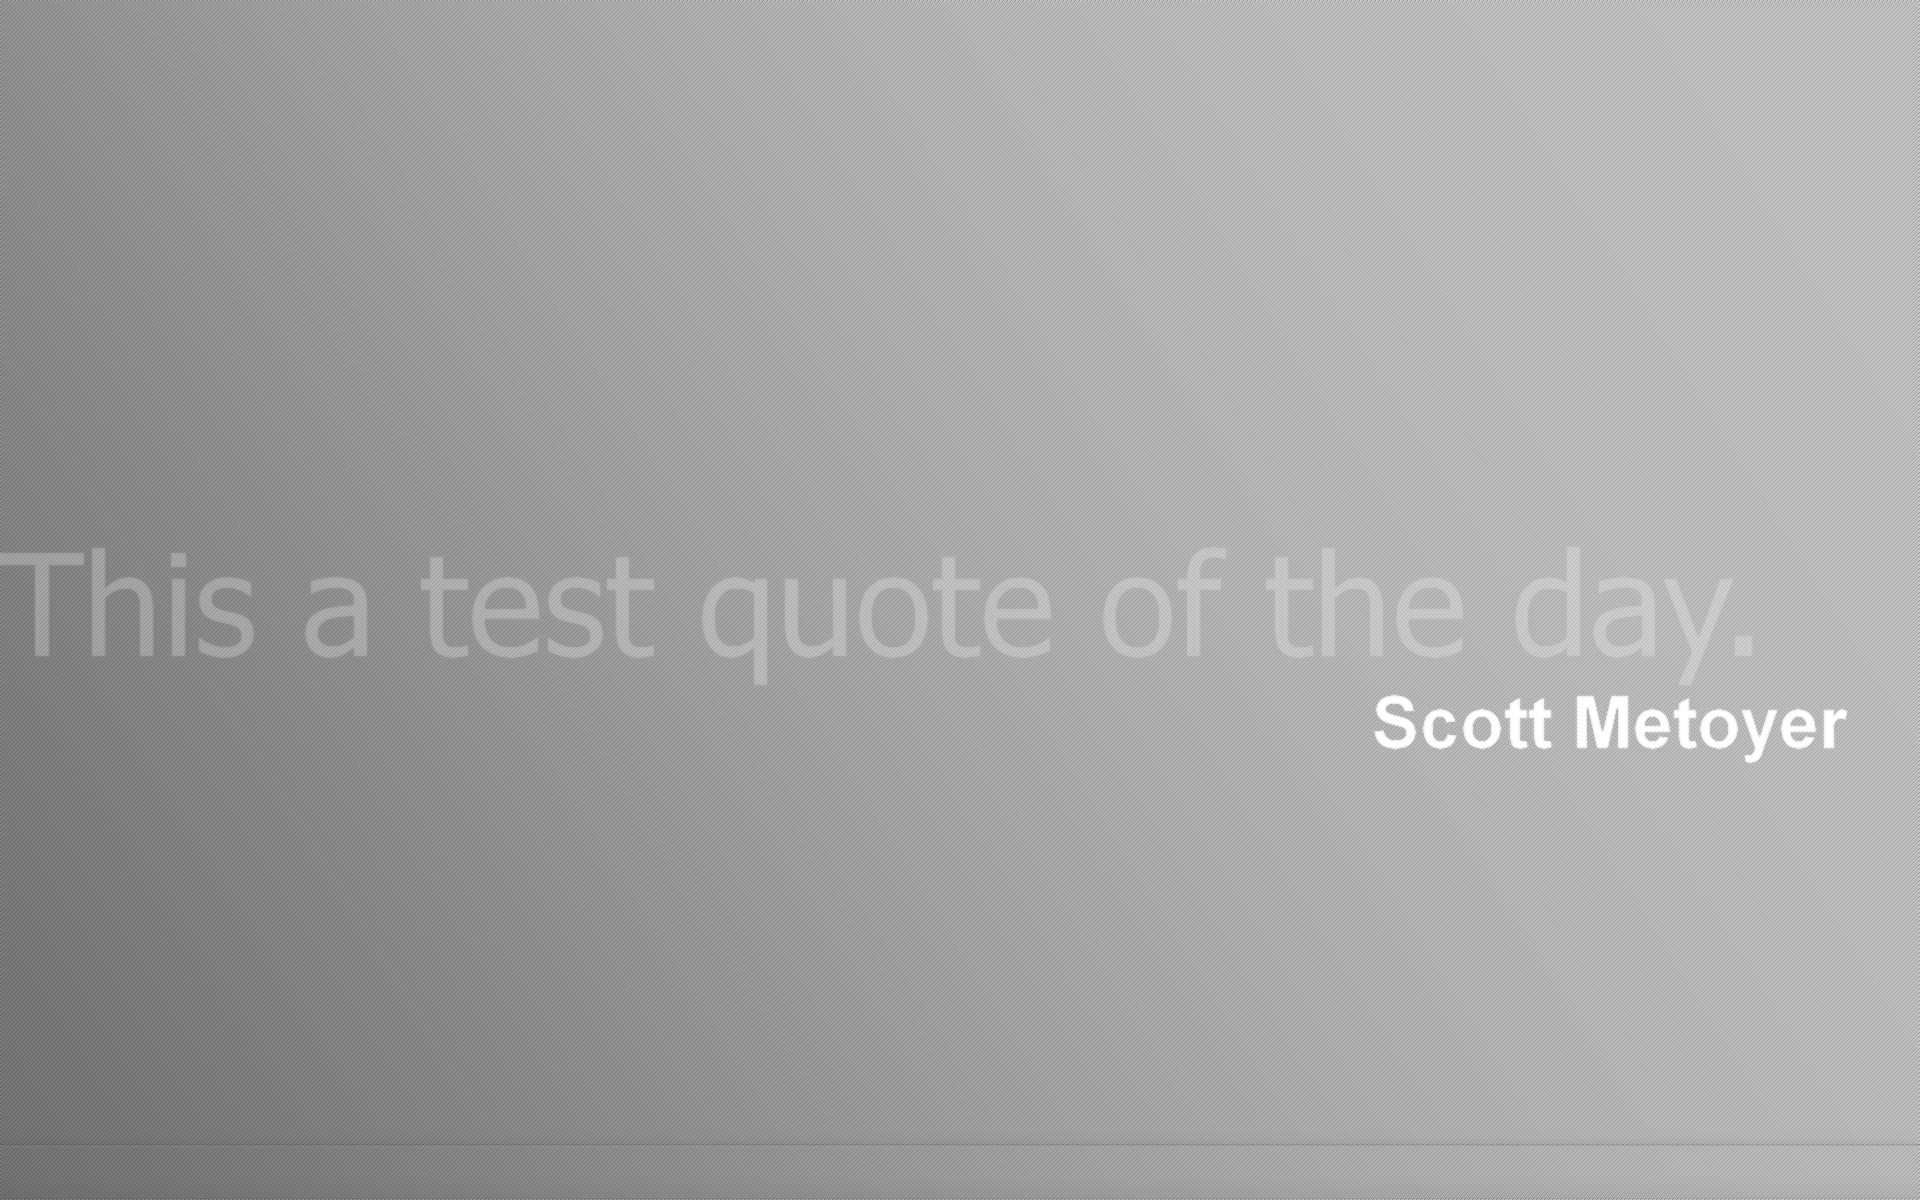
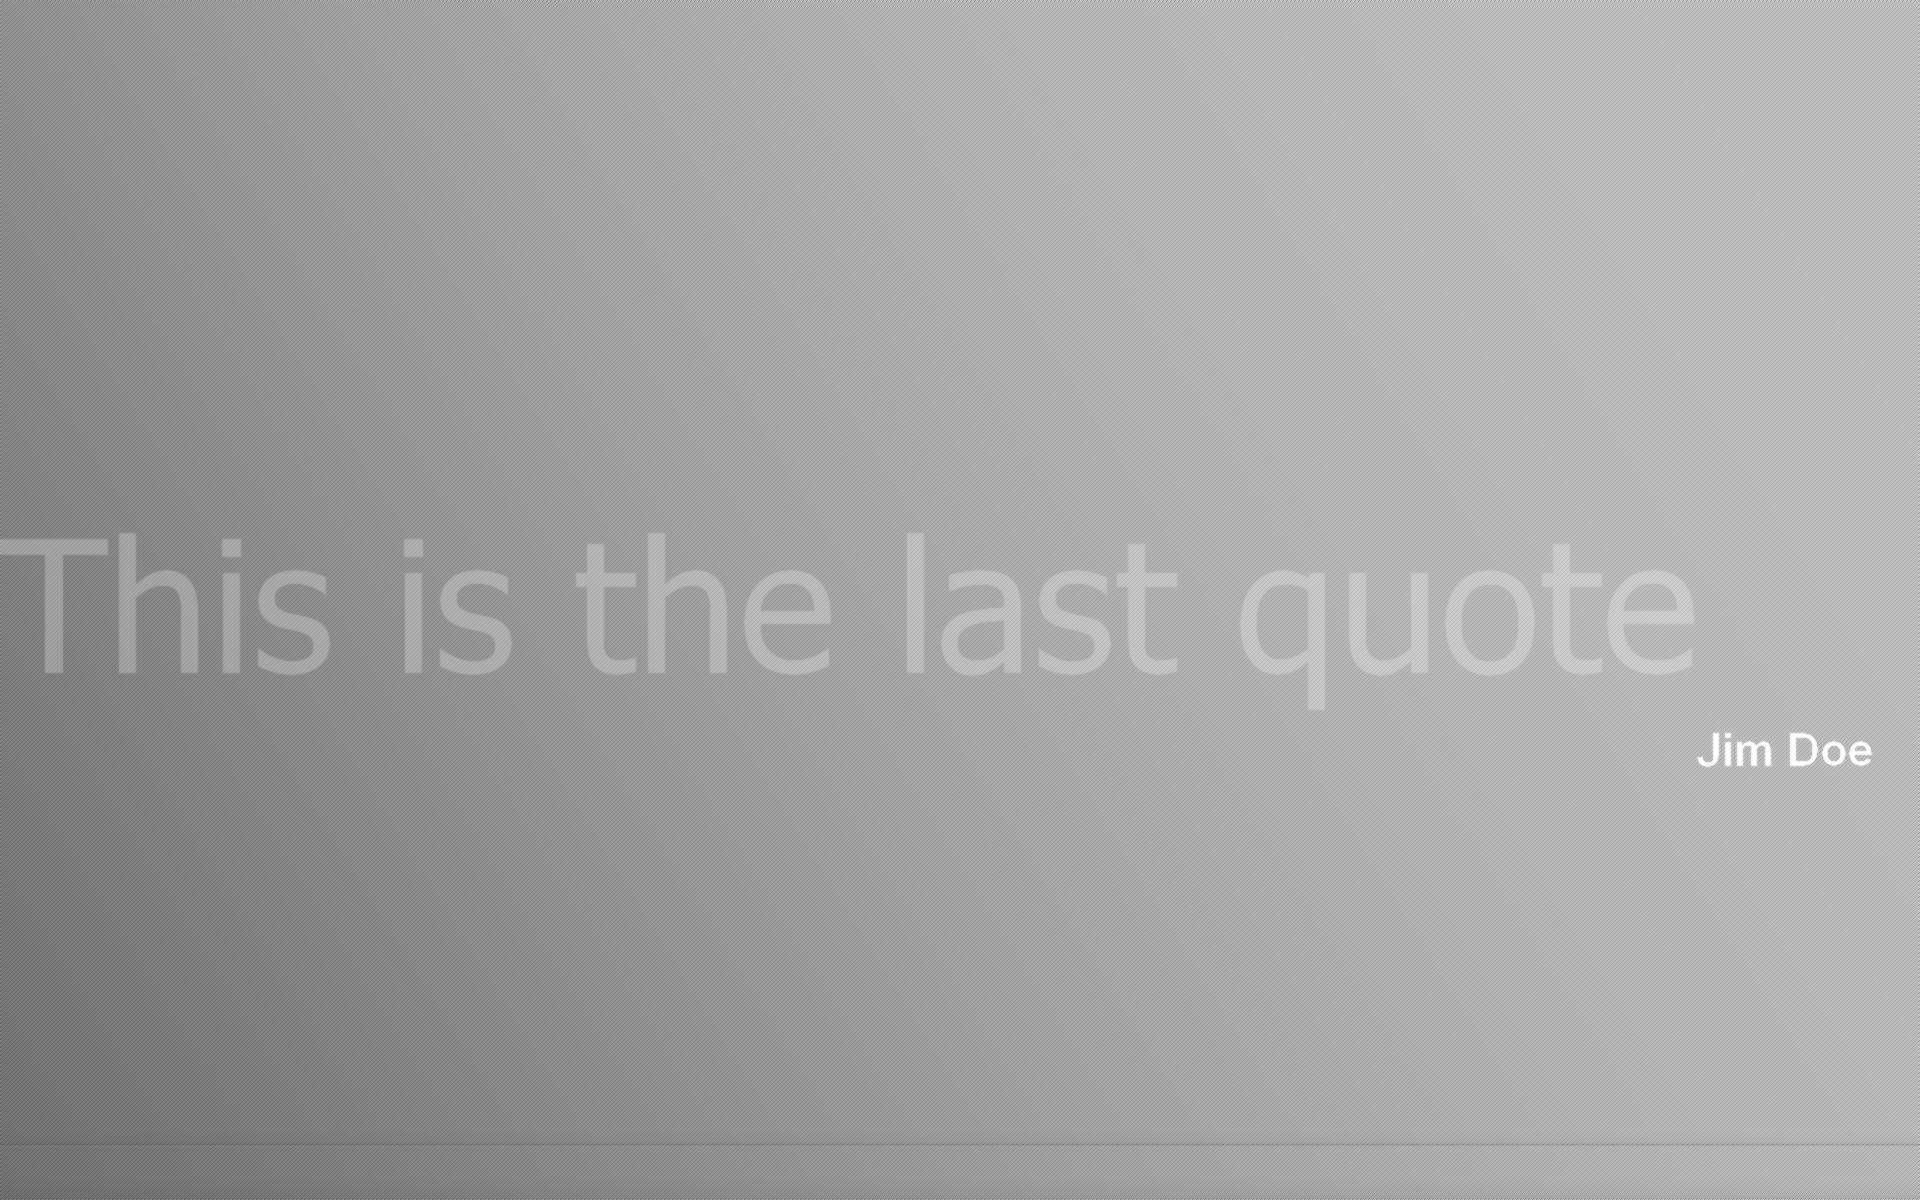
Added json output to node script

Changed region(s): [[0.0, 0.4317, 0.375, 0.555], [0.7188, 0.5858, 0.9688, 0.6475], [0.4062, 0.4933, 0.4375, 0.555]]

diff --git a/quoteserver.js b/quoteserver.js
@@ -2,20 +2,22 @@ var fs = require('fs');
 var http = require('http');
 
 http.createServer(function (req, res) {
-    var output = '';
+    var output = { };
     
     try {   
         var quotes = []
         quotes = fs.readFileSync('./quotes.txt').toString().split('\n');
     
         // Grab a random quote
-        output  = quotes[Math.floor((Math.random() * (quotes.length)))];
+        var quote = quotes[Math.floor((Math.random() * (quotes.length)))].trim().split('-');
+        output = { text: quote[0].trim(), author: quote[1].trim() };
     }
     catch(ex) {
         output = ex.toString();
     }
     
-    res.writeHead(200, {'Content-Type': 'text/plain'});
-    res.end(output);
+    res.writeHead(200, {'Content-Type': 'application/json'});
+    res.write(JSON.stringify(output));
+    res.end();
 }).listen(1337, '127.0.0.1');
 console.log('Server running at http://127.0.0.1:1337/');

diff --git a/update-wallpaper.py b/update-wallpaper.py
@@ -3,14 +3,19 @@
 import ctypes
 import os
 import textwrap
+import json
+import urllib2
 from PIL import Image, ImageDraw, ImageFont, ImageEnhance, ImageFilter
 
 FONT = "tahoma.ttf"
 BOLD_FONT = "arialbd.ttf"
-
 SPI_SETDESKWALLPAPER = 20 # According to http://support.microsoft.com/default.aspx?scid=97142
 
-def add_quote(in_file, text, author, out_file, opacity=0.25):
+def get_quote(url):
+    quote = json.load(urllib2.urlopen(url))
+    return quote
+
+def render_wallpaper(in_file, text, author, out_file, opacity=0.25):
     img = Image.open(in_file).convert("RGB")
     quote_image = Image.new('RGBA', img.size, (0,0,0,0))
     size = 2
@@ -61,11 +66,9 @@ def add_quote(in_file, text, author, out_file, opacity=0.25):
     Image.composite(author_image, composite, author_image).filter(ImageFilter.SMOOTH_MORE).save(out_file, "JPEG")
 
 rendered_wallpaper = os.getcwd() + "/rendered.jpg"
-add_quote("wallpaper.jpg", "This a test quote of the day.", "Scott Metoyer", rendered_wallpaper)
+quote = get_quote("http://127.0.0.1:1337")
+render_wallpaper("wallpaper.jpg", quote["text"], quote["author"], rendered_wallpaper)
 errorCode = ctypes.windll.user32.SystemParametersInfoA(SPI_SETDESKWALLPAPER, 0, rendered_wallpaper, 0) 
 
 if errorCode == 0:
-	print(ctypes.GetLastError())
-else:
-	print("Wallpaper set.")
-    
+	print(ctypes.GetLastError())    
